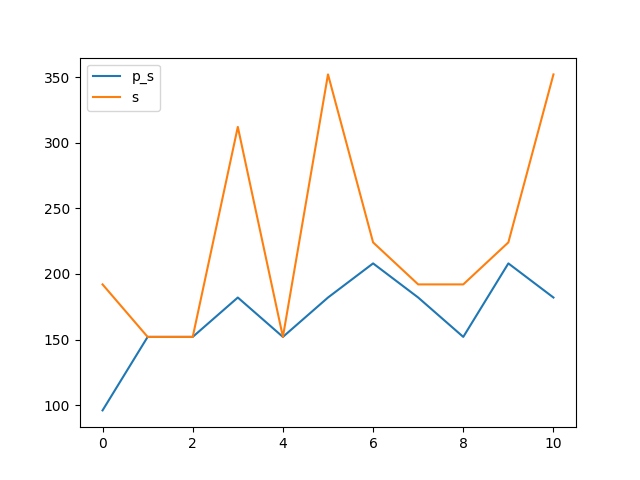
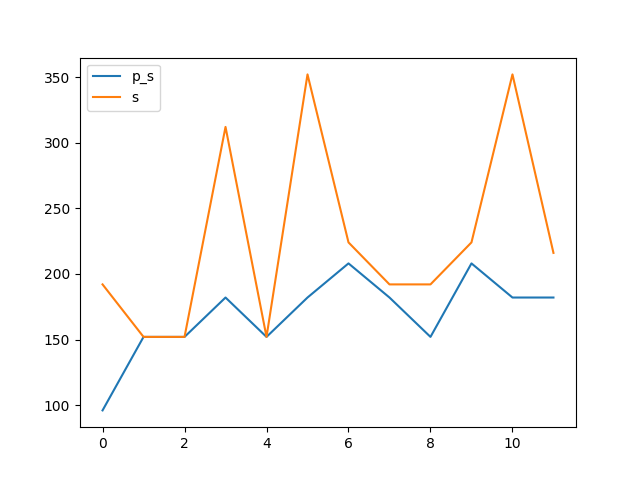
0x000B

diff --git a/benchmark.md b/benchmark.md
@@ -20,16 +20,18 @@ Synthesising 0x0009 pexact:208 r=4 exact:224 r=3
 
 Synthesising 0x000A pexact:182 r=4 exact:352 r=4
 
+Synthesising 0x000B pexact:182 r=4 exact:216 r=3
+
 ```mermaid
 xychart-beta
     title "Comparison powertwoexact twoexact"
-    x-axis [0, 1, 2, 3, 4, 5, 6, 7, 8, 9, 10]
+    x-axis [0, 1, 2, 3, 4, 5, 6, 7, 8, 9, 10, 11]
     y-axis "Switching Activity" 0-->352
-    line [96, 152, 152, 182, 152, 182, 208, 182, 152, 208, 182]
-    line [192, 152, 152, 312, 152, 352, 224, 192, 192, 224, 352]
-    line [168.0, 168.0, 168.0, 168.0, 168.0, 168.0, 168.0, 168.0, 168.0, 168.0, 168.0]
-    line [226.9090909090909, 226.9090909090909, 226.9090909090909, 226.9090909090909, 226.9090909090909, 226.9090909090909, 226.9090909090909, 226.9090909090909, 226.9090909090909, 226.9090909090909, 226.9090909090909]
-    bar [4, 3, 3, 4, 3, 4, 4, 4, 3, 4, 4, 4, 3, 3, 4, 3, 4, 4, 4, 3, 4, 4, 4, 3, 3, 4, 3, 4, 4, 4, 3, 4, 4, 4, 3, 3, 4, 3, 4, 4, 4, 3, 4, 4, 4, 3, 3, 4, 3, 4, 4, 4, 3, 4, 4, 4, 3, 3, 4, 3, 4, 4, 4, 3, 4, 4, 4, 3, 3, 4, 3, 4, 4, 4, 3, 4, 4, 4, 3, 3, 4, 3, 4, 4, 4, 3, 4, 4, 4, 3, 3, 4, 3, 4, 4, 4, 3, 4, 4, 4, 3, 3, 4, 3, 4, 4, 4, 3, 4, 4, 4, 3, 3, 4, 3, 4, 4, 4, 3, 4, 4, 4, 3, 3, 4, 3, 4, 4, 4, 3, 4, 4, 4, 3, 3, 4, 3, 4, 4, 4, 3, 4, 4, 4, 3, 3, 4, 3, 4, 4, 4, 3, 4, 4, 4, 3, 3, 4, 3, 4, 4, 4, 3, 4, 4, 4, 3, 3, 4, 3, 4, 4, 4, 3, 4, 4, 4, 3, 3, 4, 3, 4, 4, 4, 3, 4, 4, 4, 3, 3, 4, 3, 4, 4, 4, 3, 4, 4, 4, 3, 3, 4, 3, 4, 4, 4, 3, 4, 4, 4, 3, 3, 4, 3, 4, 4, 4, 3, 4, 4]
-    bar [4, 3, 3, 4, 3, 4, 3, 3, 3, 3, 4, 4, 3, 3, 4, 3, 4, 3, 3, 3, 3, 4, 4, 3, 3, 4, 3, 4, 3, 3, 3, 3, 4, 4, 3, 3, 4, 3, 4, 3, 3, 3, 3, 4, 4, 3, 3, 4, 3, 4, 3, 3, 3, 3, 4, 4, 3, 3, 4, 3, 4, 3, 3, 3, 3, 4, 4, 3, 3, 4, 3, 4, 3, 3, 3, 3, 4, 4, 3, 3, 4, 3, 4, 3, 3, 3, 3, 4, 4, 3, 3, 4, 3, 4, 3, 3, 3, 3, 4, 4, 3, 3, 4, 3, 4, 3, 3, 3, 3, 4, 4, 3, 3, 4, 3, 4, 3, 3, 3, 3, 4, 4, 3, 3, 4, 3, 4, 3, 3, 3, 3, 4, 4, 3, 3, 4, 3, 4, 3, 3, 3, 3, 4, 4, 3, 3, 4, 3, 4, 3, 3, 3, 3, 4, 4, 3, 3, 4, 3, 4, 3, 3, 3, 3, 4, 4, 3, 3, 4, 3, 4, 3, 3, 3, 3, 4, 4, 3, 3, 4, 3, 4, 3, 3, 3, 3, 4, 4, 3, 3, 4, 3, 4, 3, 3, 3, 3, 4, 4, 3, 3, 4, 3, 4, 3, 3, 3, 3, 4, 4, 3, 3, 4, 3, 4, 3, 3, 3, 3, 4]
+    line [96, 152, 152, 182, 152, 182, 208, 182, 152, 208, 182, 182]
+    line [192, 152, 152, 312, 152, 352, 224, 192, 192, 224, 352, 216]
+    line [169.16666666666666, 169.16666666666666, 169.16666666666666, 169.16666666666666, 169.16666666666666, 169.16666666666666, 169.16666666666666, 169.16666666666666, 169.16666666666666, 169.16666666666666, 169.16666666666666, 169.16666666666666]
+    line [226.0, 226.0, 226.0, 226.0, 226.0, 226.0, 226.0, 226.0, 226.0, 226.0, 226.0, 226.0]
+    bar [4, 3, 3, 4, 3, 4, 4, 4, 3, 4, 4, 4, 4, 3, 3, 4, 3, 4, 4, 4, 3, 4, 4, 4, 4, 3, 3, 4, 3, 4, 4, 4, 3, 4, 4, 4, 4, 3, 3, 4, 3, 4, 4, 4, 3, 4, 4, 4, 4, 3, 3, 4, 3, 4, 4, 4, 3, 4, 4, 4, 4, 3, 3, 4, 3, 4, 4, 4, 3, 4, 4, 4, 4, 3, 3, 4, 3, 4, 4, 4, 3, 4, 4, 4, 4, 3, 3, 4, 3, 4, 4, 4, 3, 4, 4, 4, 4, 3, 3, 4, 3, 4, 4, 4, 3, 4, 4, 4, 4, 3, 3, 4, 3, 4, 4, 4, 3, 4, 4, 4, 4, 3, 3, 4, 3, 4, 4, 4, 3, 4, 4, 4, 4, 3, 3, 4, 3, 4, 4, 4, 3, 4, 4, 4, 4, 3, 3, 4, 3, 4, 4, 4, 3, 4, 4, 4, 4, 3, 3, 4, 3, 4, 4, 4, 3, 4, 4, 4, 4, 3, 3, 4, 3, 4, 4, 4, 3, 4, 4, 4, 4, 3, 3, 4, 3, 4, 4, 4, 3, 4, 4, 4, 4, 3, 3, 4, 3, 4, 4, 4, 3, 4, 4, 4, 4, 3, 3, 4, 3, 4, 4, 4, 3, 4, 4, 4, 4, 3, 3, 4, 3, 4, 4, 4, 3, 4, 4, 4, 4, 3, 3, 4, 3, 4, 4, 4, 3, 4, 4, 4]
+    bar [4, 3, 3, 4, 3, 4, 3, 3, 3, 3, 4, 3, 4, 3, 3, 4, 3, 4, 3, 3, 3, 3, 4, 3, 4, 3, 3, 4, 3, 4, 3, 3, 3, 3, 4, 3, 4, 3, 3, 4, 3, 4, 3, 3, 3, 3, 4, 3, 4, 3, 3, 4, 3, 4, 3, 3, 3, 3, 4, 3, 4, 3, 3, 4, 3, 4, 3, 3, 3, 3, 4, 3, 4, 3, 3, 4, 3, 4, 3, 3, 3, 3, 4, 3, 4, 3, 3, 4, 3, 4, 3, 3, 3, 3, 4, 3, 4, 3, 3, 4, 3, 4, 3, 3, 3, 3, 4, 3, 4, 3, 3, 4, 3, 4, 3, 3, 3, 3, 4, 3, 4, 3, 3, 4, 3, 4, 3, 3, 3, 3, 4, 3, 4, 3, 3, 4, 3, 4, 3, 3, 3, 3, 4, 3, 4, 3, 3, 4, 3, 4, 3, 3, 3, 3, 4, 3, 4, 3, 3, 4, 3, 4, 3, 3, 3, 3, 4, 3, 4, 3, 3, 4, 3, 4, 3, 3, 3, 3, 4, 3, 4, 3, 3, 4, 3, 4, 3, 3, 3, 3, 4, 3, 4, 3, 3, 4, 3, 4, 3, 3, 3, 3, 4, 3, 4, 3, 3, 4, 3, 4, 3, 3, 3, 3, 4, 3, 4, 3, 3, 4, 3, 4, 3, 3, 3, 3, 4, 3, 4, 3, 3, 4, 3, 4, 3, 3, 3, 3, 4, 3]
 ```
 
